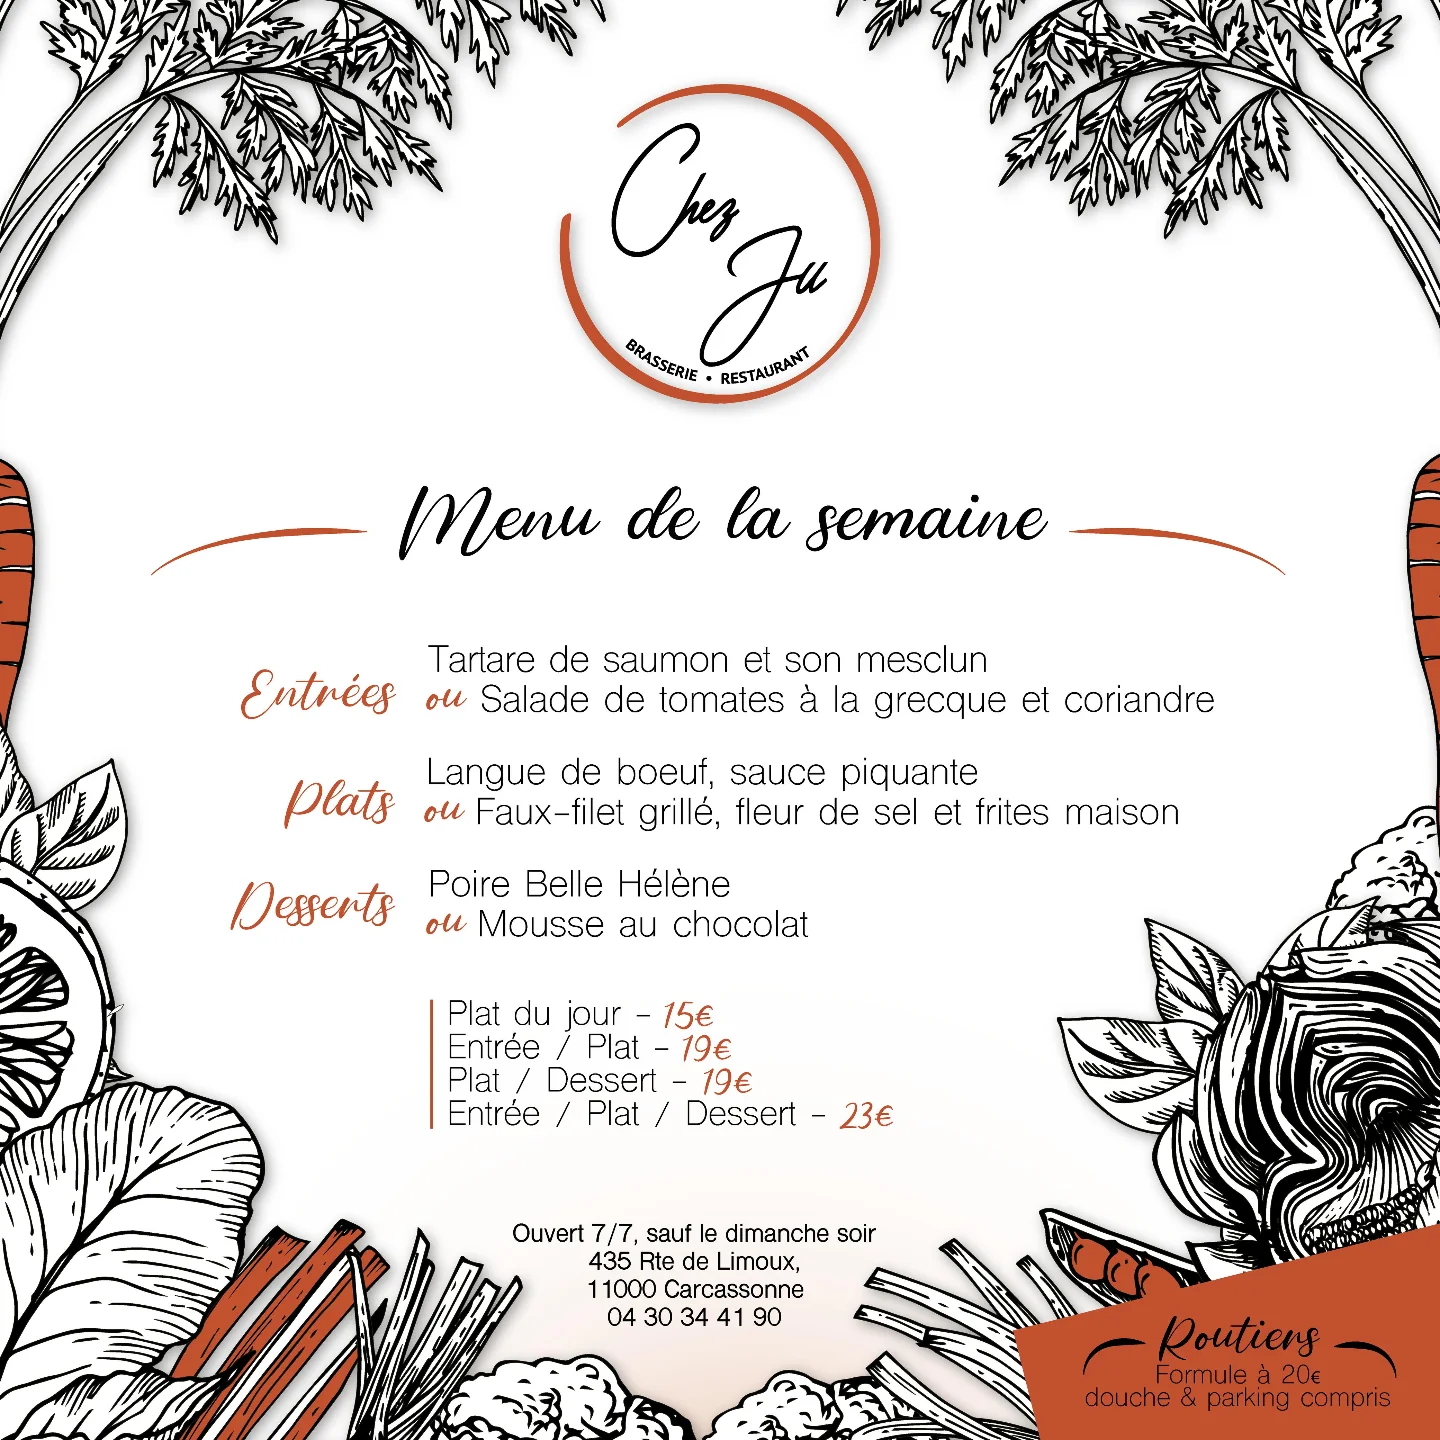
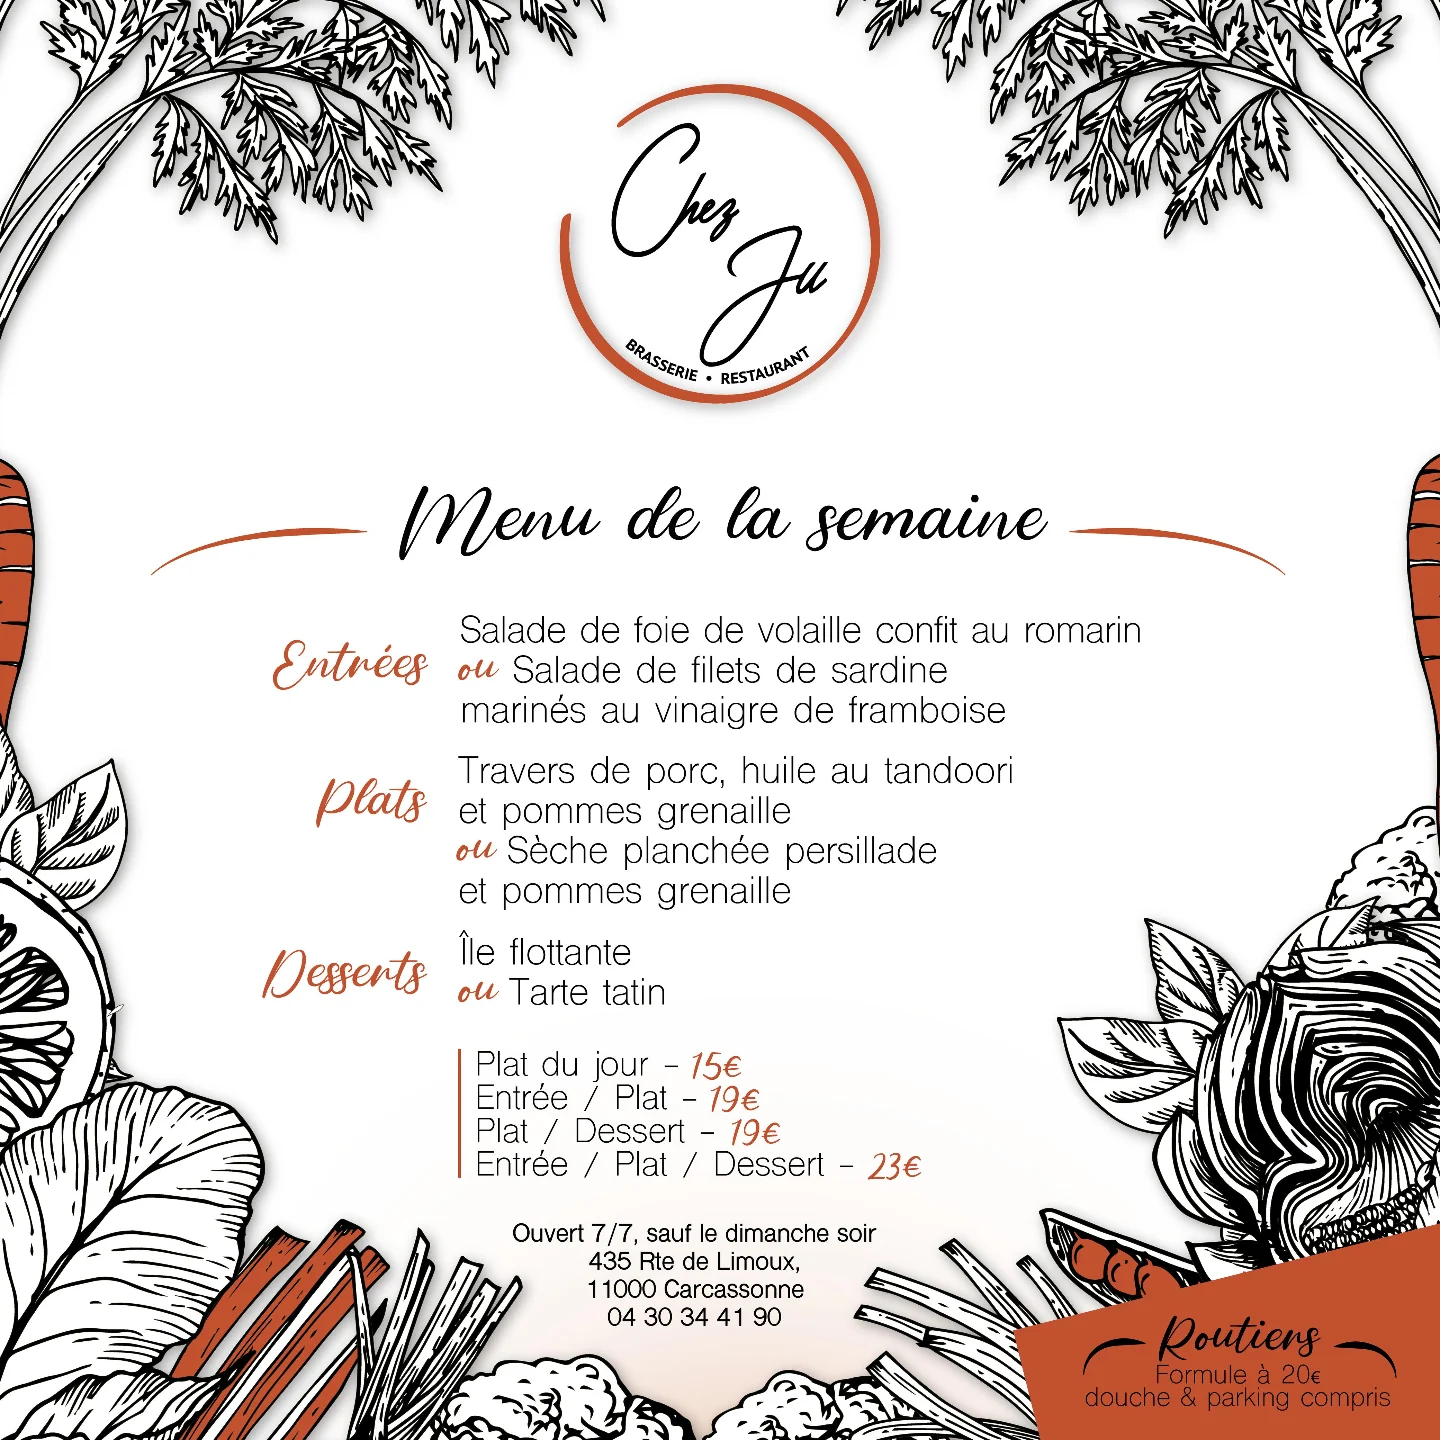
new menu de la semaine

diff --git a/components/home/InstagramFeed.vue b/components/home/InstagramFeed.vue
@@ -112,9 +112,9 @@ const instagramPosts = ref<InstagramPost[]>([
   {
     id: '2',
     imageUrl: '/images/instagram/menu_semaine.webp',
-    postUrl: 'https://www.instagram.com/p/DG8Cv8Do1Ob/',
+    postUrl: 'https://www.instagram.com/p/DHNxVa5IlNo',
     title: 'Menu de la semaine',
-    description: 'Du lundi 10 au vendredi 14 mars'
+    description: 'Du lundi 16 au vendredi 20 mars'
   },
   {
     id: '3',
